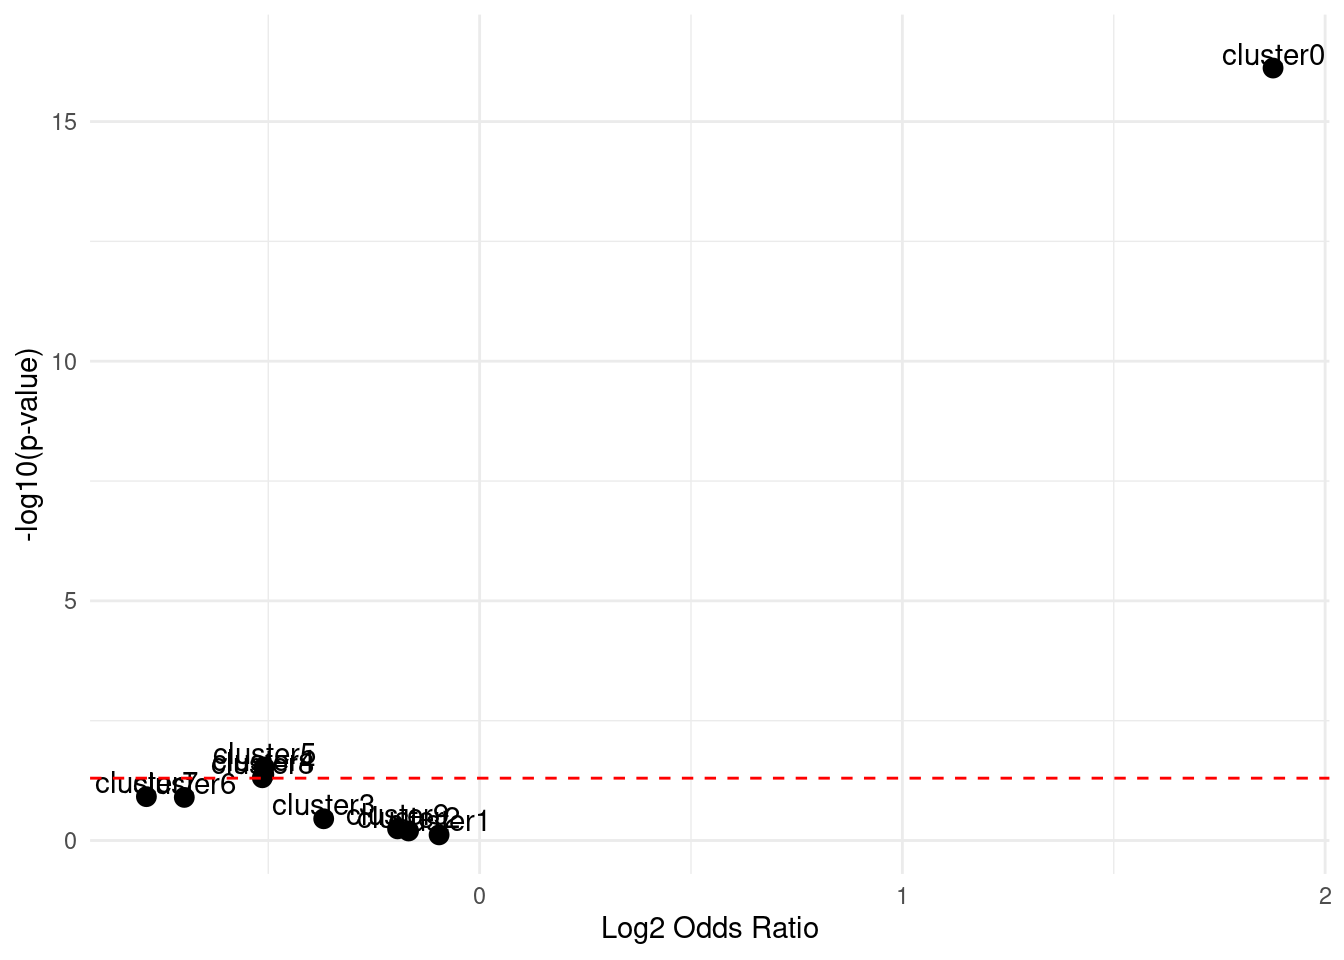
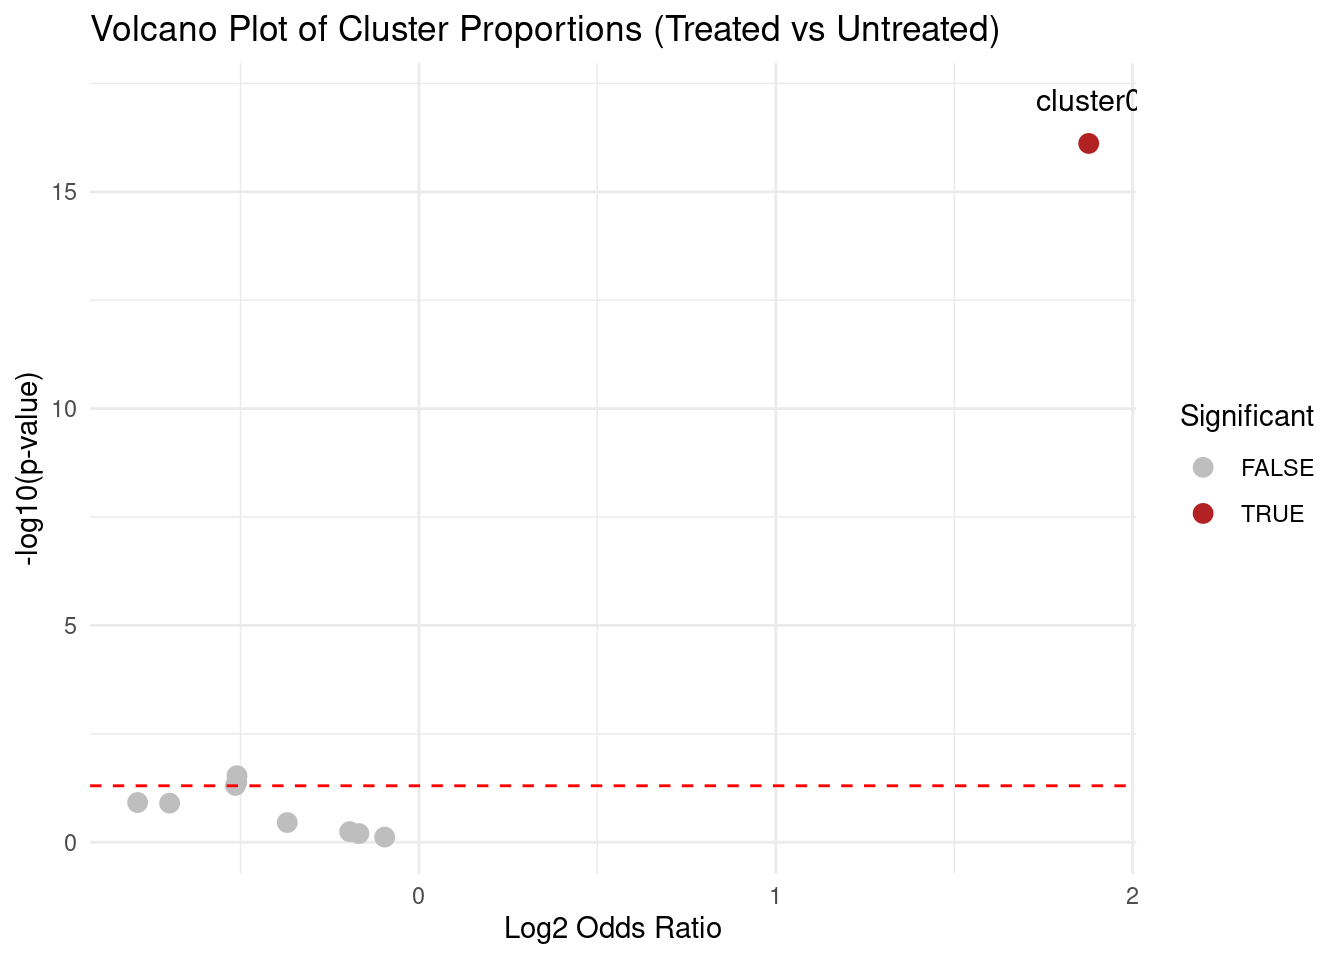
Build site.

diff --git a/docs/fisher.html b/docs/fisher.html
@@ -519,15 +519,15 @@ project makes it easier to run your code on other machines.</p>
 <div class="panel panel-default">
 <div class="panel-heading">
 <p class="panel-title">
-<a data-toggle="collapse" data-parent="#workflowr-checks" href="#strongRepositoryversionstrongahrefhttpsgithubcomdavetangmusetreee9e40c4306ce9ec323be7deeda74d15e31f128dftargetblanke9e40c4a">
+<a data-toggle="collapse" data-parent="#workflowr-checks" href="#strongRepositoryversionstrongahrefhttpsgithubcomdavetangmusetreecd487f9642fa8160347df6801f48280aa4e374eftargetblankcd487f9a">
 <span class="glyphicon glyphicon-ok text-success"
 aria-hidden="true"></span> <strong>Repository version:</strong>
-<a href="https://github.com/davetang/muse/tree/e9e40c4306ce9ec323be7deeda74d15e31f128df" target="_blank">e9e40c4</a>
+<a href="https://github.com/davetang/muse/tree/cd487f9642fa8160347df6801f48280aa4e374ef" target="_blank">cd487f9</a>
 </a>
 </p>
 </div>
 <div
[2 lines of base64/hex data omitted]
 class="panel-collapse collapse">
 <div class="panel-body">
 <p>
@@ -537,7 +537,7 @@ reproducibility.
 </p>
 <p>
 The results in this page were generated with repository version
-<a href="https://github.com/davetang/muse/tree/e9e40c4306ce9ec323be7deeda74d15e31f128df" target="_blank">e9e40c4</a>.
+<a href="https://github.com/davetang/muse/tree/cd487f9642fa8160347df6801f48280aa4e374ef" target="_blank">cd487f9</a>.
 See the <em>Past versions</em> tab to see a history of the changes made
 to the R Markdown and HTML files.
 </p>
@@ -627,6 +627,40 @@ Message
 </tr>
 </thead>
 <tbody>
+<tr>
+<td>
+Rmd
+</td>
+<td>
+<a href="https://github.com/davetang/muse/blob/cd487f9642fa8160347df6801f48280aa4e374ef/analysis/fisher.Rmd" target="_blank">cd487f9</a>
+</td>
+<td>
+Dave Tang
+</td>
+<td>
+2025-03-29
+</td>
+<td>
+Label significant cluster in volcano plot
+</td>
+</tr>
+<tr>
+<td>
+html
+</td>
+<td>
+<a href="https://rawcdn.githack.com/davetang/muse/c33357f99489b86dbe995e98d15daac458907cfc/docs/fisher.html" target="_blank">c33357f</a>
+</td>
+<td>
+Dave Tang
+</td>
+<td>
+2025-03-29
+</td>
+<td>
+Build site.
+</td>
+</tr>
 <tr>
 <td>
 Rmd
@@ -948,11 +982,22 @@ res_df</code></pre>
 <p>Volcano plot.</p>
 <pre class="r"><code>library(ggplot2)
 
-ggplot(res_df, aes(x = log2_odds_ratio, y = -log10(pvalue), label=Cluster)) +
-  geom_point(size=3) +
-  geom_text(nudge_y = 0.3) +
-  geom_hline(yintercept = -log10(0.05), linetype=&quot;dashed&quot;, color=&quot;red&quot;) +
-  xlab(&quot;Log2 Odds Ratio&quot;) + ylab(&quot;-log10(p-value)&quot;) +
+alpha &lt;- 0.05
+res_df$Significant &lt;- res_df$padj &lt; alpha
+
+ggplot(res_df, aes(x=log2_odds_ratio, y=-log10(pvalue))) +
+  geom_point(aes(colour=Significant), size=3) +
+  geom_text(
+    data=res_df[res_df$Significant,],
+    aes(label=Cluster),
+    nudge_y=1,
+    size=4
+  ) +
+  geom_hline(yintercept = -log10(0.05), linetype=&quot;dashed&quot;, colour=&quot;red&quot;) +
+  scale_colour_manual(values=c(&quot;grey&quot;, &quot;firebrick&quot;)) +
+  xlab(&quot;Log2 Odds Ratio&quot;) + 
+  ylab(&quot;-log10(p-value)&quot;) +
+  ggtitle(&quot;Volcano Plot of Cluster Proportions (Treated vs Untreated)&quot;) +
   theme_minimal()</code></pre>
 <p><img src="figure/fisher.Rmd/volcano_plot-1.png" width="672" style="display: block; margin: auto;" /></p>
 <p>
@@ -1093,8 +1138,8 @@ in a specific cluster <strong>in treated cells</strong> versus
 <pre class="r"><code>res_df[1, ]</code></pre>
 <pre><code>   Cluster Treated Untreated       pvalue odds_ratio         padj
 1 cluster0     200        55 7.654036e-17   3.672694 7.654036e-16
-  log2_odds_ratio
-1        1.876839</code></pre>
+  log2_odds_ratio Significant
+1        1.876839        TRUE</code></pre>
 <table>
 <thead>
 <tr class="header">
